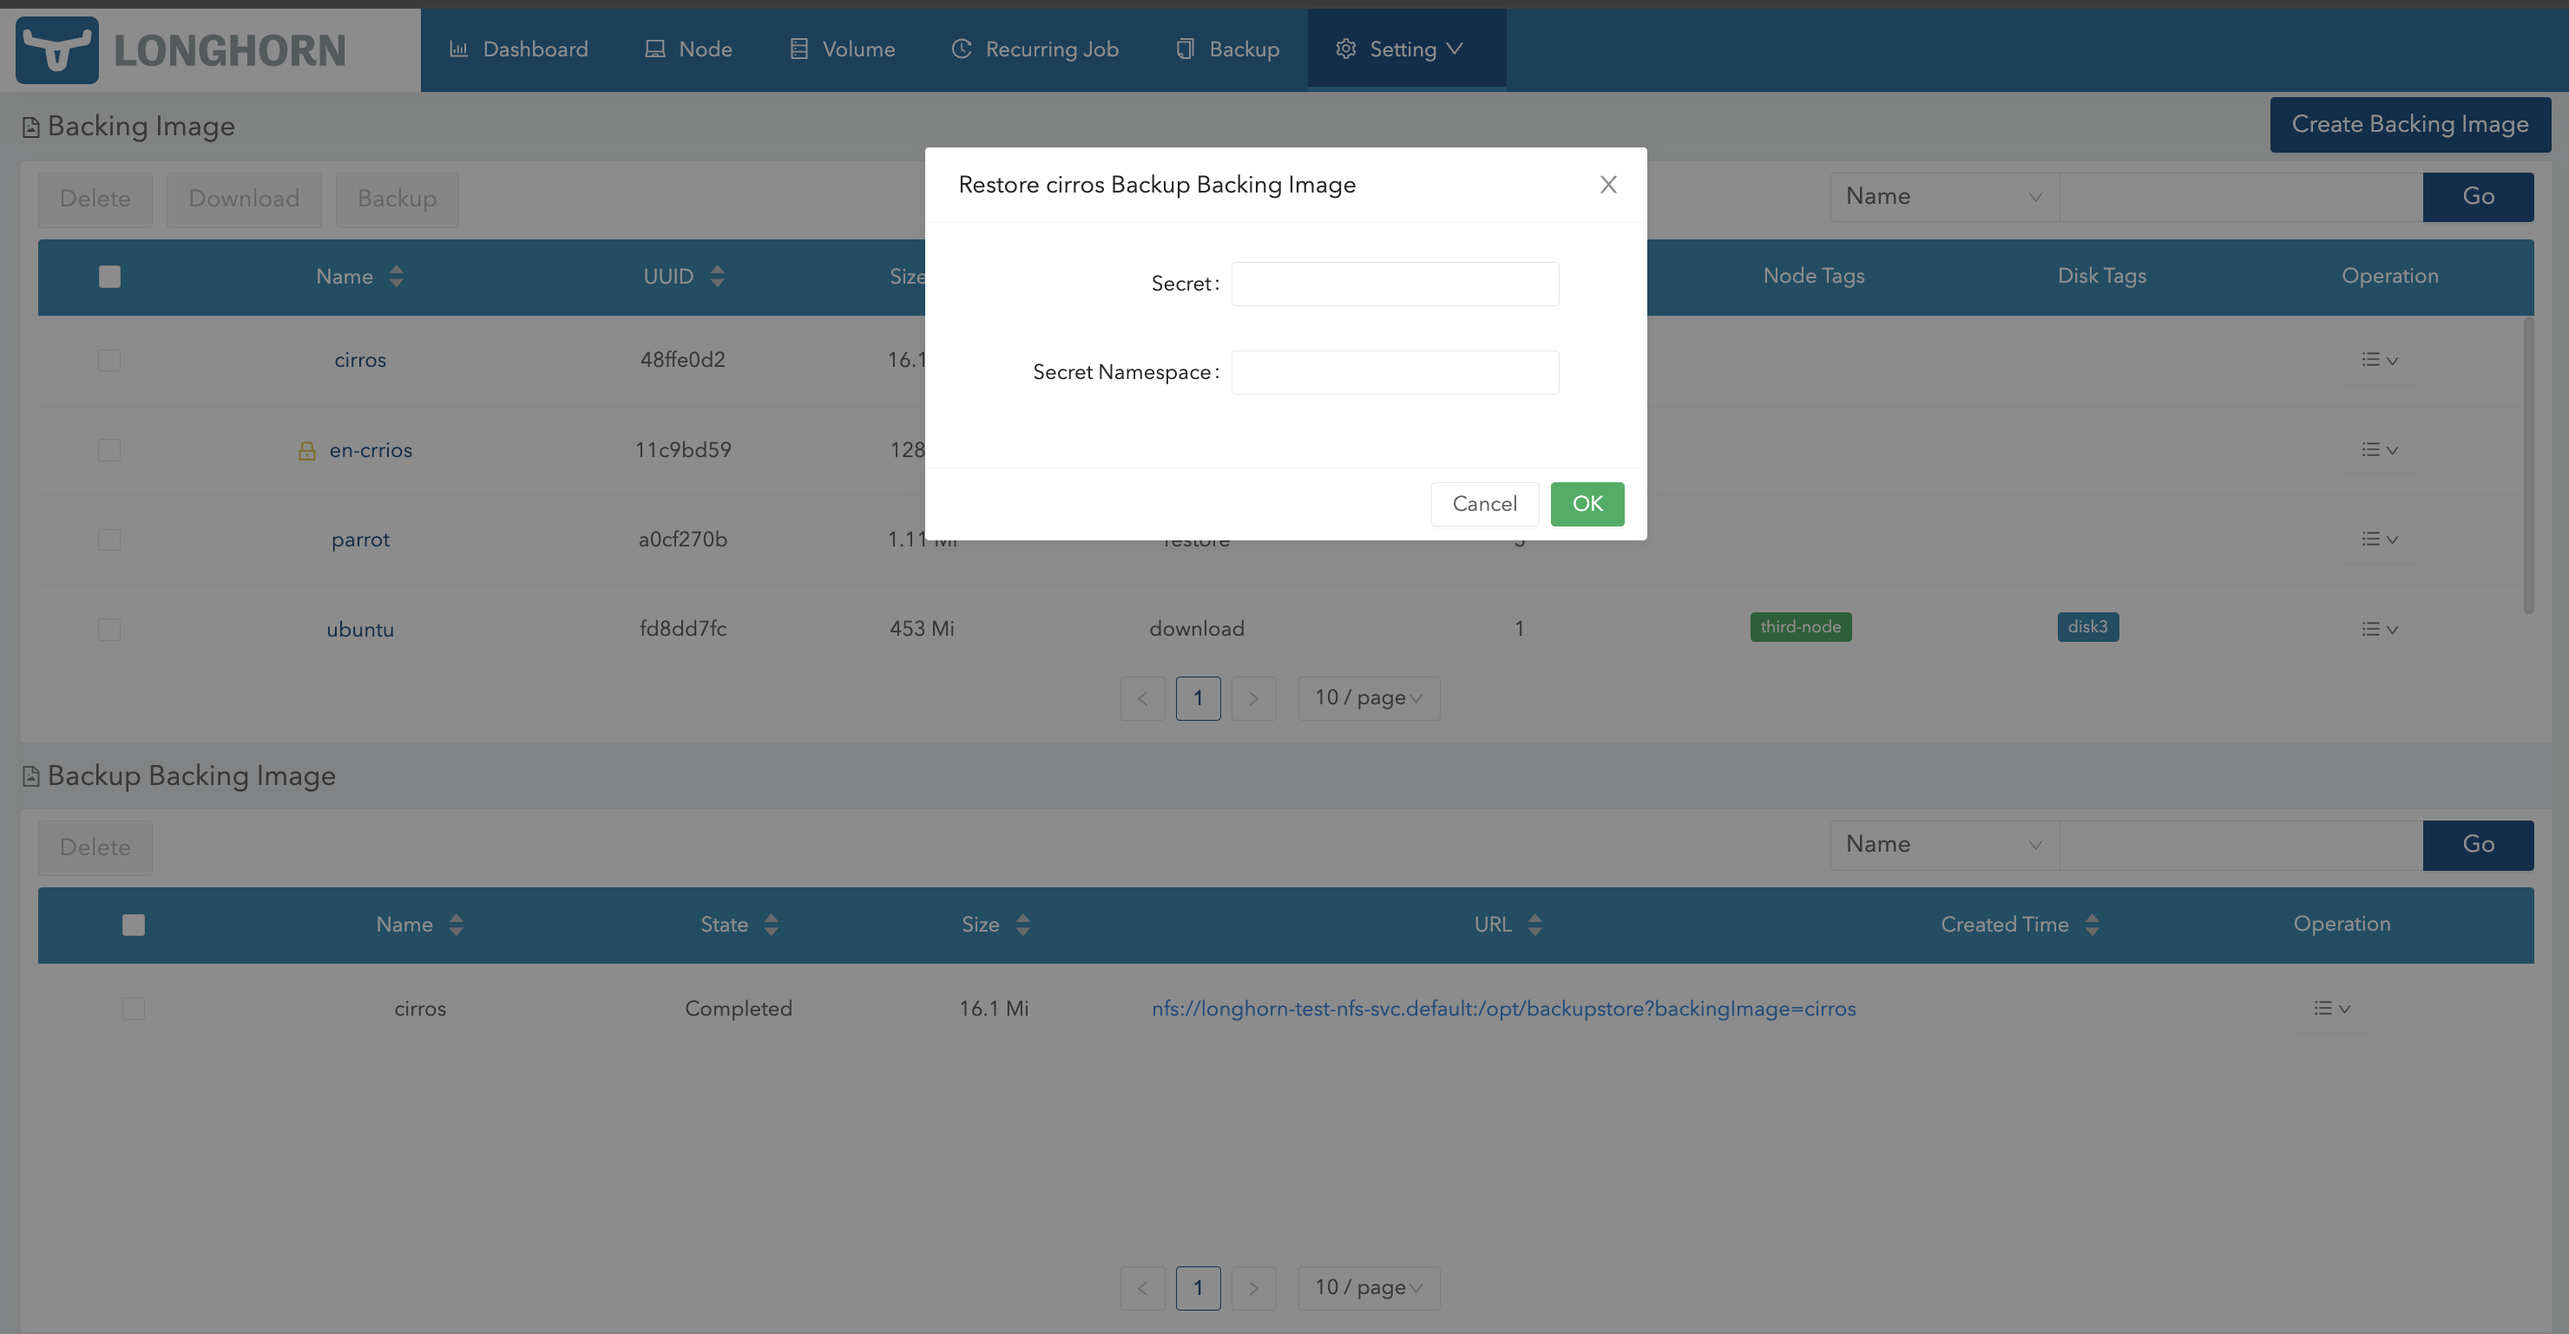
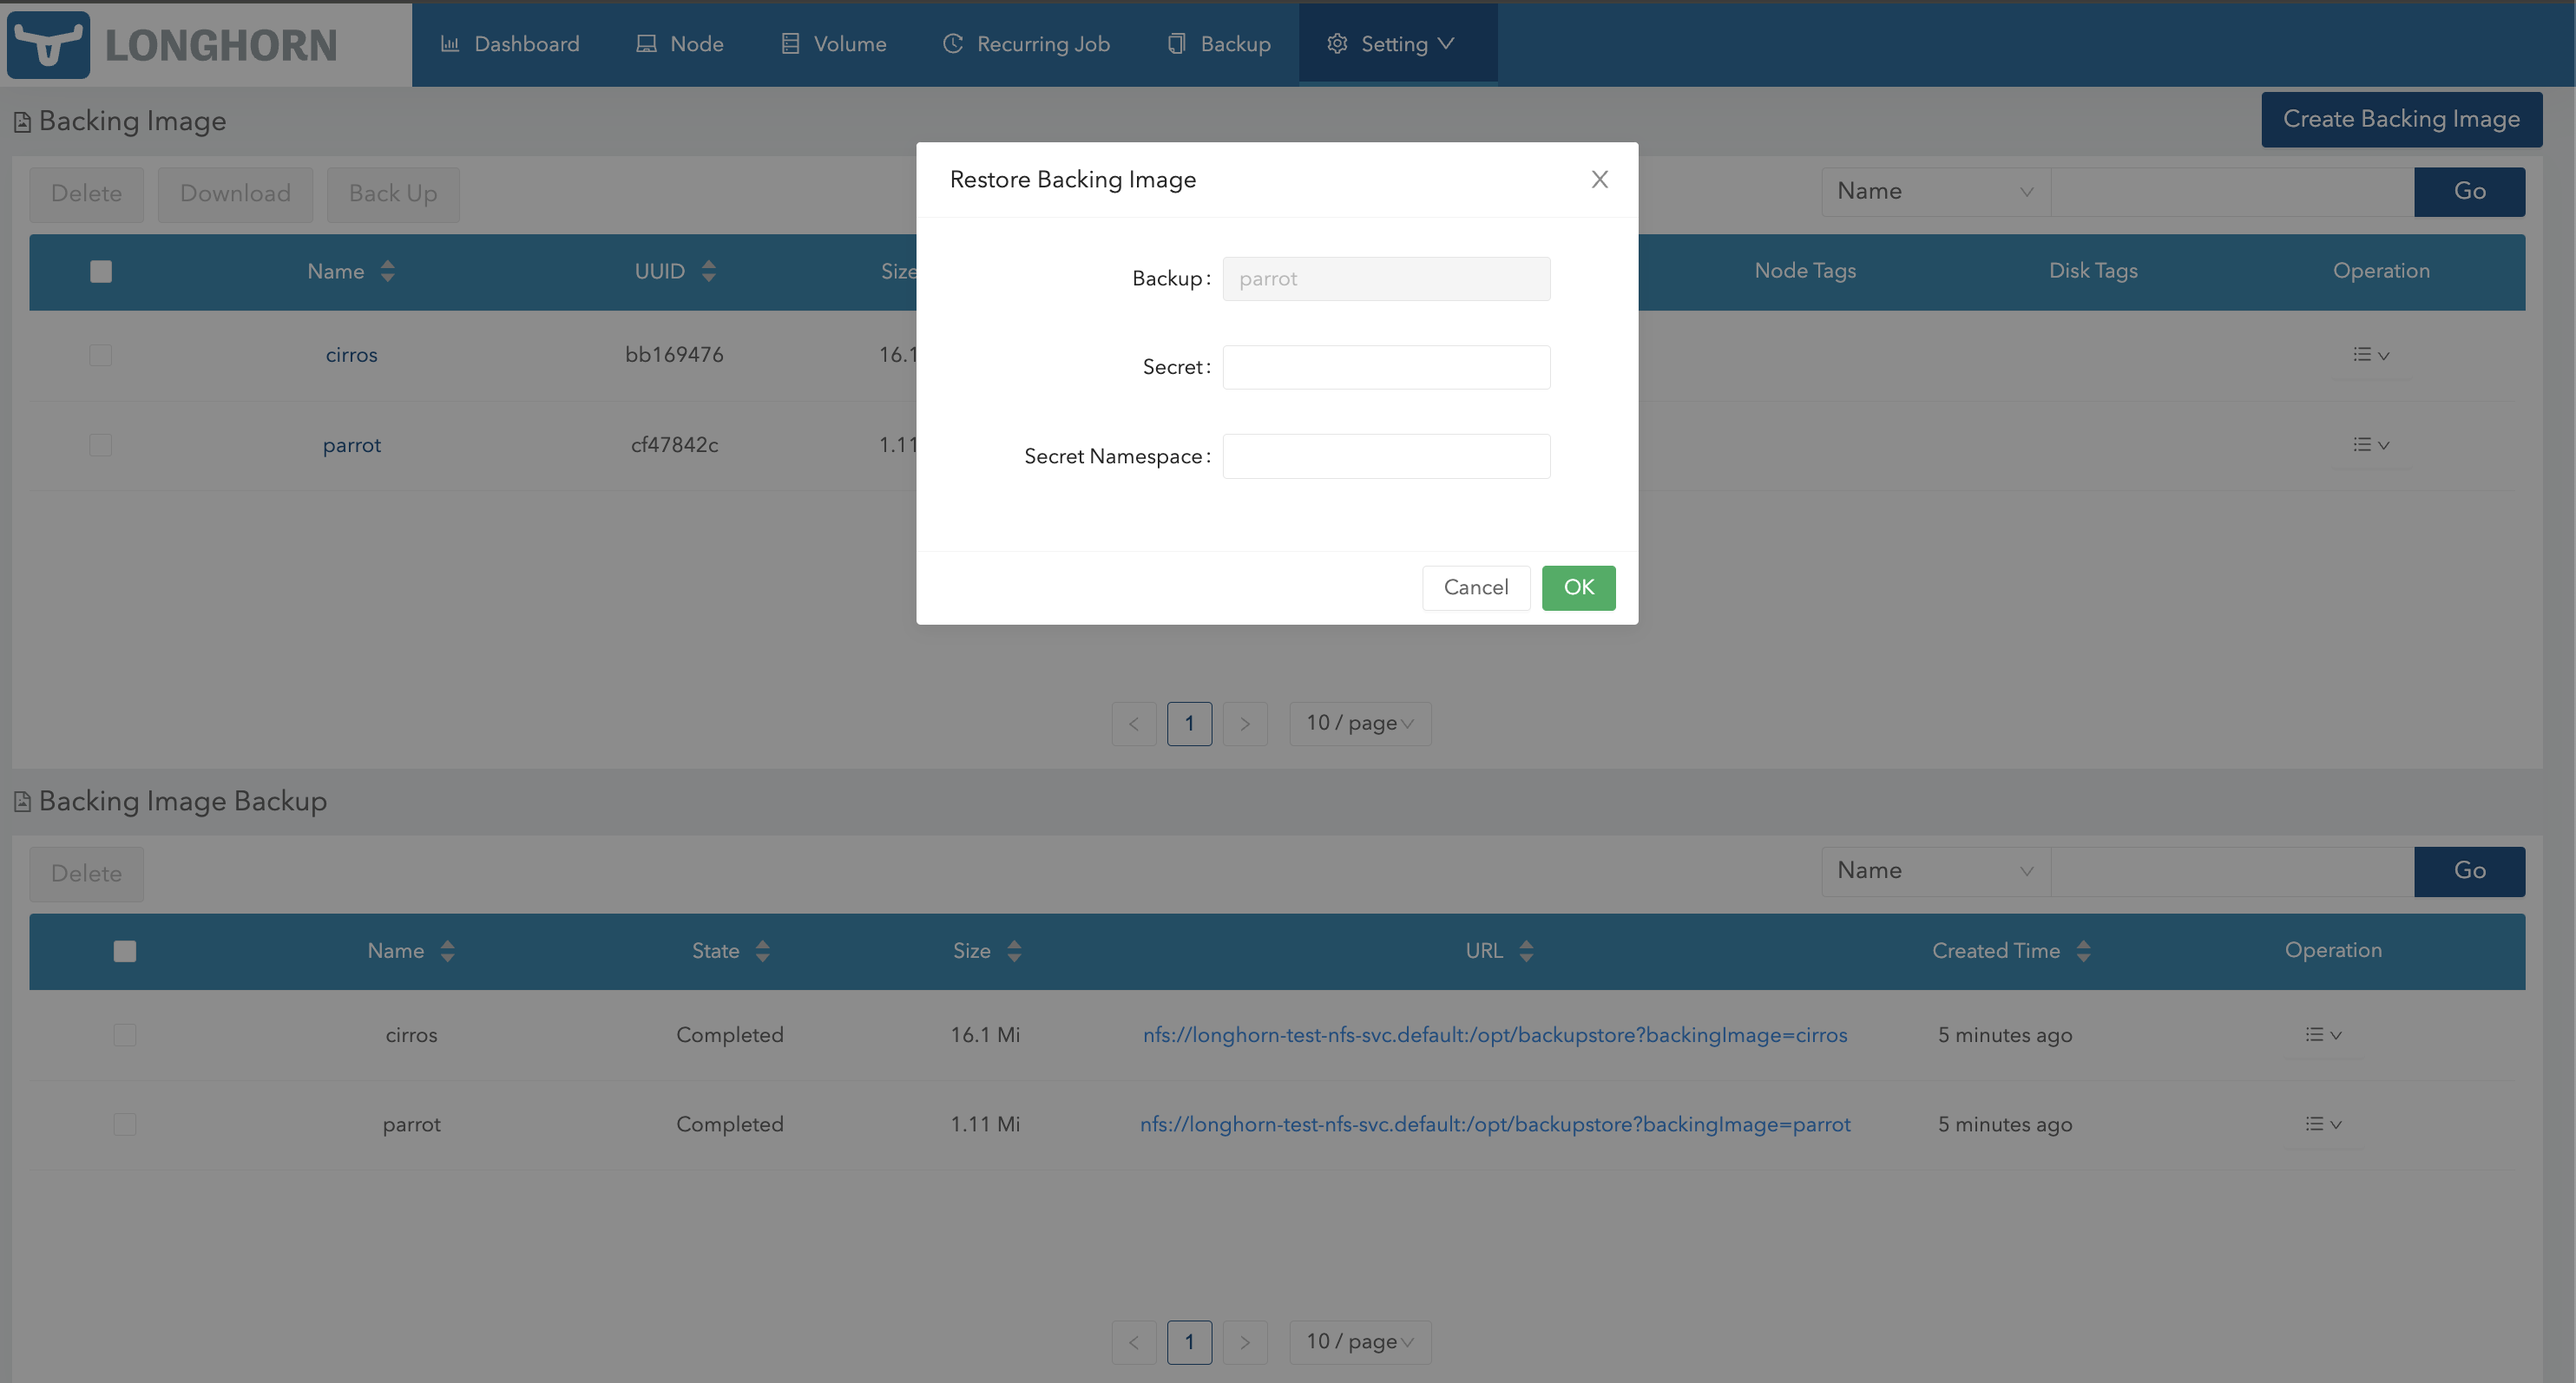
Update screenshots

diff --git a/content/docs/1.7.0/advanced-resources/backing-image/backing-image-backup.md b/content/docs/1.7.0/advanced-resources/backing-image/backing-image-backup.md
@@ -9,11 +9,11 @@ As of v1.6.0, Longhorn supports backing up of backing images.
 
 You must first [set up a backup target](../../../snapshots-and-backups/backup-and-restore/set-backup-target). If you skip this crucial step, the missing backup target will prevent Longhorn from creating a backup of the backing image.
 
-## Create Backup of a Backing Image
+## Create a Backup of a Backing Image
 
 Because backing images are globally unique within the Longhorn system, the corresponding backups are also globally unique and are identified using the same name.
 
-You can create backups of backing images using YAML.
+### Create a Backup Using YAML
 
 Example of backing image:
 ```yaml
@@ -48,10 +48,11 @@ spec:
 > - `userCreated`: Set the value to `true` to indicate that you created the backup custom resource, which enabled the creation of the backup in the backupstore. The value `false` indicates that the backup custom resource was synced from the backupstore.
 > - `labels`: You can add labels to the backing image backup.
 
-Backup a backing image via UI
-1. Go to `Setting -> Backing Image` page.
-2. Click the `Backup` action in operation menu for the backing image you want to do backup
-3. The backup with the same backing image name will show in below `Backup Backing Image` table
+### Create a Backup Using the Longhorn UI
+1. Go to **Setting** > **Backing Image**.
+2. Select the backing image that you want to back up, and then click **Back Up** in the **Operation** menu.
+
+Longhorn creates the backup and adds the details to the **Backing Image Backup** list.  The names of the backup and the source backing image are identical.
 
 {{< figure src="/img/screenshots/backing-image/backup.png" >}}
 
@@ -83,21 +84,17 @@ spec:
 >   - `concurrent-limit`: Maximum number of worker threads that can concurrently run for each restore operation. When unspecified, Longhorn uses the default value.
 > - `checksum`: You can specify the expected SHA-512 checksum of the backing image file, which Longhorn uses to validate the restored file. When unspecified, Longhorn uses the checksum of the restored file as the truth.
 
-Restore backing image from a backup via UI
-1. Go to `Setting -> Backing Image` page.
-2. Click the `Restore` action in operation menu for the backup backing image you want to restore
-3. Input the `Secret` and `Secret Namespace` if the backing image is an encrypted image
-4. Click OK
+### Restore from a Backup Using the Longhorn UI
+1. Go to **Setting** > **Backing Image**.
+2. Select the backup that you want to use, and then click **Restore** in the **Operation** menu.
+3. If you are restoring an encrypted backing image, specify the `Secret` and `Secret Namespace`.
+4. Click **OK**.
 
 {{< figure src="/img/screenshots/backing-image/restore.png" >}}
 
 > **IMPORTANT:**
 >
-> Longhorn won't store secret / secret namespace in the backup backing image config in v1.7.0 release.
->
-> Users need to manually fill in the secret / secret namespace of the image when restoring.
-> We will enhance this flow in the future.
-
+> Longhorn currently does not store secret-related information in backing image backups. You must specify the secret and secret namespace when restoring encrypted backing images. This issue will be addressed in a future release.
 
 ## Volume with a Backing Image
 

diff --git a/content/docs/1.7.0/advanced-resources/backing-image/backing-image-encryption.md b/content/docs/1.7.0/advanced-resources/backing-image/backing-image-encryption.md
@@ -42,10 +42,13 @@ spec:
 > - `backing-image`: Specify the name of the backing image to be cloned.
 > - `encryption`: Set the value to `ignore` to directly clone the backing image. If the value is not given, Longhorn use `ignore` as default value.
 
-Longhorn also supports cloning the backing image via UI.
-1. Go to `Setting -> Backing Image` page and click `Create Backing Image` button.
-2. Select `Created From` to `Clone From Existing Backing Image` and select `Encryption` to `ignore`.
-3. Click `OK`
+You can also clone a backing image using the Longhorn UI.
+1. Go to **Setting** > **Backing Image**.
+2. Click **Create Backing Image**.
+3. Configure the following settings:
+  - **Created From**: Select **Clone From Existing Backing Image**.
+  - **Encryption**: Select **Ignore**.
+4. Click **OK**.
 
 {{< figure src="/img/screenshots/backing-image/clone.png" >}}
 
@@ -107,11 +110,14 @@ stringData:
 > - `secret`: Specify the secret used to encrypt the backing image.
 > - `secret-namespace`: Specify the namespace of the secret used to encrypt the backing image.
 
-You can also clone and encrypt the backing image via UI
-1. Go to `Setting -> Backing Image` page and click `Create Backing Image` button.
-2. Select `Created From` to `Clone From Existing Backing Image` and select `Encryption` to `encrypt`.
-3. Input the `Secret` and `Secret Namespace` which are required to encrypt the backing image
-4. Click `OK`
+You can also create an encrypted copy of a backing image using the Longhorn UI.
+1. Go to **Setting** > **Backing Image**.
+2. Click **Create Backing Image**.
+3. Configure the following settings:
+  - **Created From**: Select **Clone From Existing Backing Image**.
+  - **Encryption**: Select **Encrypt**.
+4. Specify the secret and secret namespace to be used for encryption.
+5. Click **OK**.
 
 {{< figure src="/img/screenshots/backing-image/encrypt.png" >}}
 
@@ -175,11 +181,15 @@ spec:
 > - `secret`: Specify the secret used to decrypt the backing image.
 > - `secret-namespace`: Specify the namespace of the secret used to decrypt the backing image.
 
-You can also clone and decrypt the backing image via UI
-1. Go to `Setting -> Backing Image` page and click `Create Backing Image` button.
-2. Select `Created From` to `Clone From Existing Backing Image` and select `Encryption` to `decrypt`.
-3. Input the `Secret` and `Secret Namespace` which are required to decrypt the backing image
-4. Click `OK`
+You can also decrypt a backing image (through cloning) using the Longhorn UI.
+1. Go to **Setting** > **Backing Image**.
+2. Click **Create Backing Image**.
+3. Configure the following settings:
+  - **Created From**: Select **Clone From Existing Backing Image**.
+  - **Encryption**: Select **Decrypt**.
+4. Specify the secret and secret namespace to be used for decryption.
+5. Click **OK**.
+
 
 {{< figure src="/img/screenshots/backing-image/decrypt.png" >}}
 
